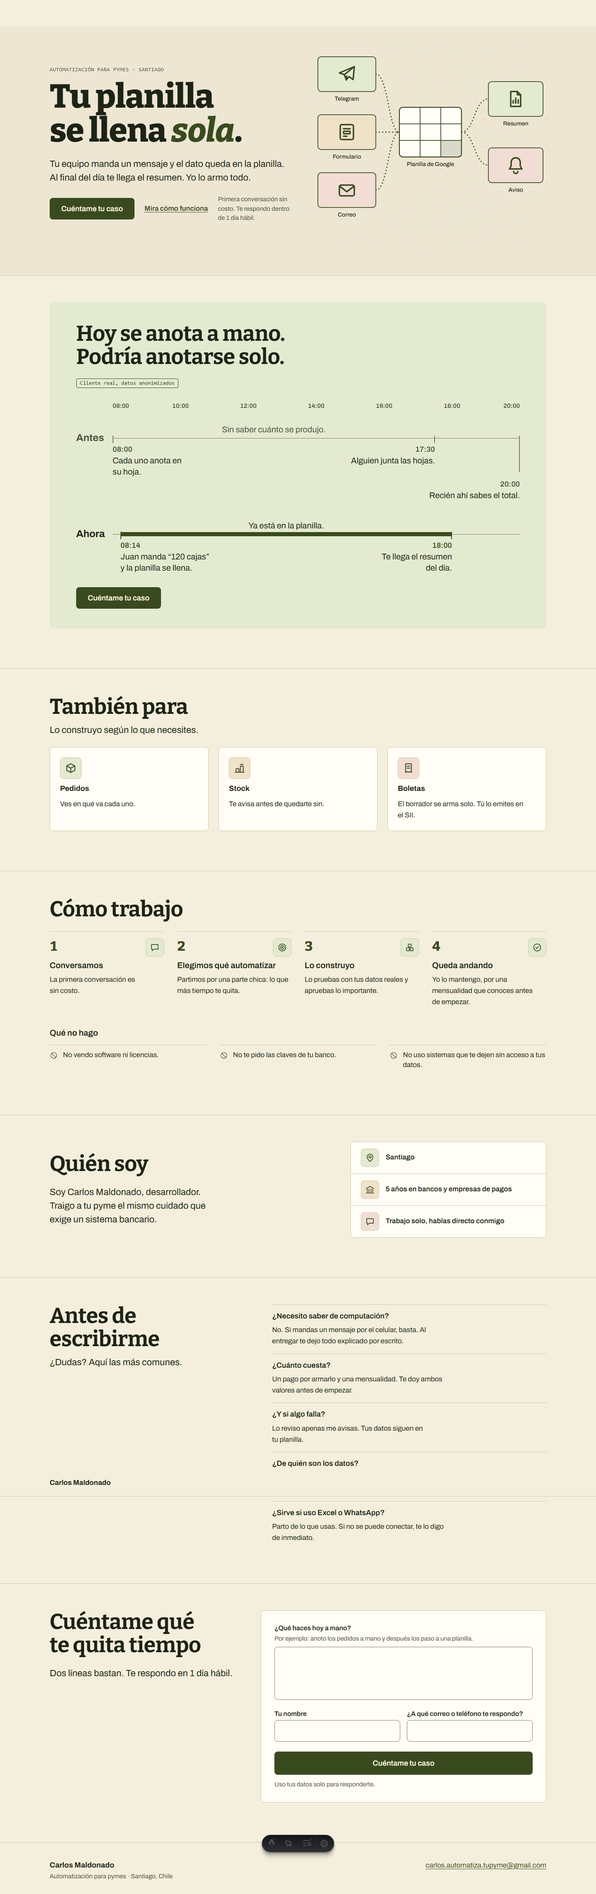
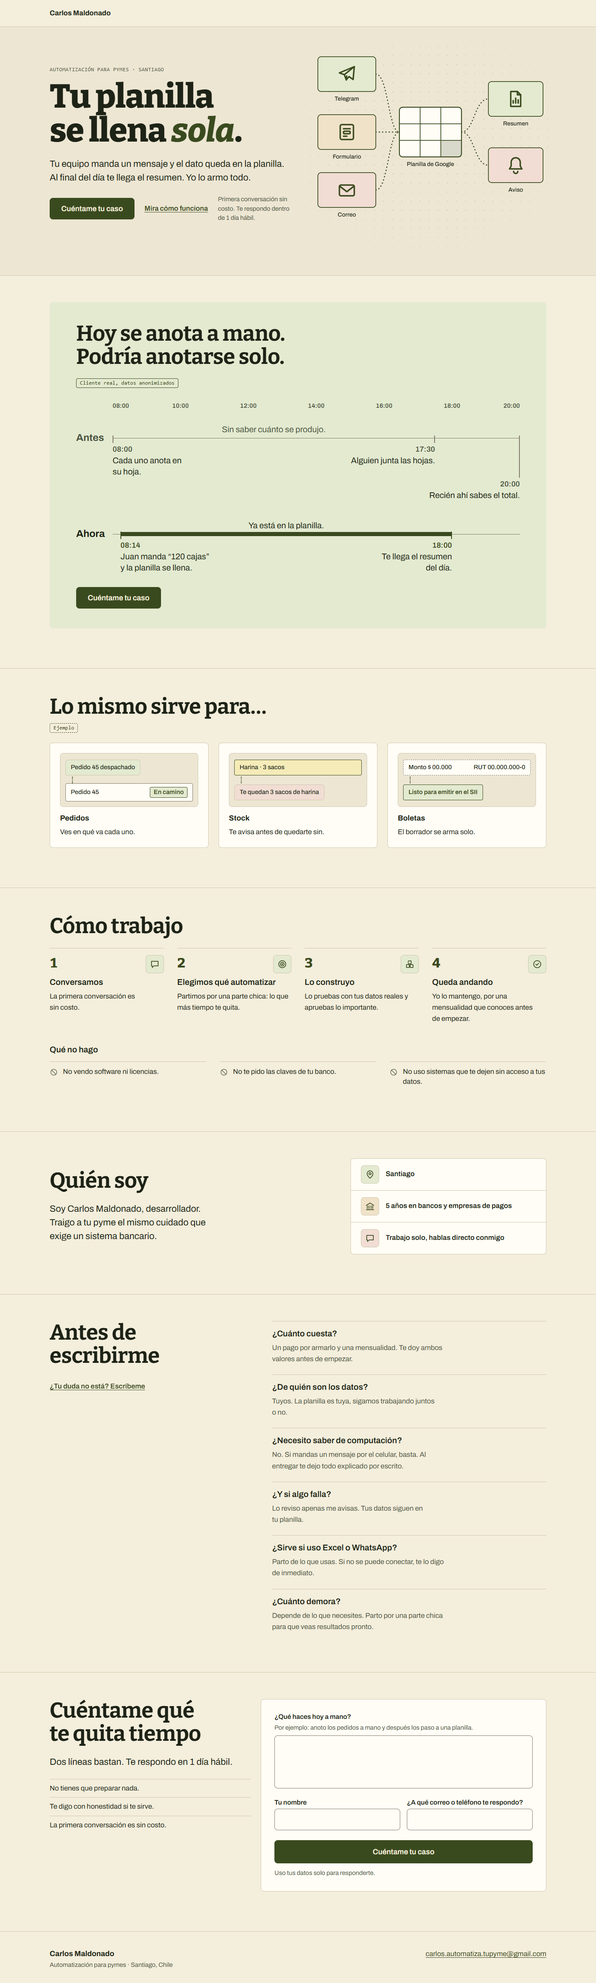
Fase 4: revisión 2026-10-17
FAQ con jerarquía y 6 preguntas, promesas en contacto, 'Lo mismo sirve para…' con mini-UI, marca de 20:00 en el caso, npm run capturas.

diff --git a/src/styles/global.css b/src/styles/global.css
@@ -167,7 +167,7 @@ main > section + section { border-top: 1px solid var(--linea); }
 .hito.der { left: auto; right: calc((20 - var(--h)) / 12 * 100%); text-align: right; }
 .hito.der::before { left: auto; right: 0; }
 .hito.t2 { padding-top: 6.5rem; }
-.hito.t2::before { height: 5.5rem; }
+.hito.t2::before { height: 6.375rem; }
 .hito p { font: 400 1.25rem/1.35 var(--f-titulo); max-width: none; }
 .hito.t2 p { width: 14rem; }
 .hora { display: block; color: var(--oliva); font: 600 1.125rem/1.5 var(--f-titulo); font-variant-numeric: tabular-nums; }
@@ -215,16 +215,18 @@ main > section + section { border-top: 1px solid var(--linea); }
 }
 
 /* preguntas frecuentes: details nativos */
-.faq { margin-top: var(--s6); display: grid; gap: var(--s5) var(--s7); }
+.faq { margin-top: var(--s6); display: grid; gap: var(--s6) var(--s7); }
 .faq > div { border-top: 1px solid var(--linea); padding-top: var(--s4); }
-.faq h3 { font: 600 1.125rem/1.3 var(--f-titulo); }
-.faq p { margin-top: var(--s2); max-width: 44ch; }
+.faq h3 { font: 600 1.25rem/1.3 var(--f-titulo); color: var(--tinta); }
+.faq p { margin-top: var(--s2); max-width: 44ch; color: var(--tinta-2); }
 @media (min-width: 768px) { .faq { grid-template-columns: 1fr 1fr; } }
 .faq-grid { display: grid; }
-.faq-intro .lead { margin-top: var(--s3); }
+.faq-intro { position: sticky; top: calc(64px + var(--s5)); }
+@media (max-width: 1023px) { .faq-intro { position: static; } }
+.faq-duda { display: inline-flex; align-items: center; min-height: 44px; margin-top: var(--s4); font-weight: 600; }
 @media (min-width: 1024px) {
   .faq-grid { grid-template-columns: 5fr 7fr; column-gap: var(--s8); align-items: start; }
-  .faq { grid-template-columns: 1fr; margin-top: 0; gap: var(--s4); }
+  .faq { grid-template-columns: 1fr; margin-top: 0; gap: var(--s5); }
 }
 
 /* volver al inicio */
@@ -328,7 +330,7 @@ main > section + section { border-top: 1px solid var(--linea); }
   .pasos h3, .pasos p { grid-column: 3; max-width: none; }
   .trabajo-cierre, .no-hago { margin-top: var(--s5); }
   .campo textarea { min-height: 96px; }
-  .faq { gap: var(--s4); margin-top: var(--s5); }
+  .faq { gap: var(--s5); margin-top: var(--s5); }
 }
 
 /* hero: ilustracion de linea fina (mensajes -> planilla -> resumen y aviso) sobre una grilla de puntos muy tenue */
@@ -347,19 +349,33 @@ main > section + section { border-top: 1px solid var(--linea); }
 .caja { width: 52px; height: 52px; border: 1px solid var(--linea); border-radius: var(--r); display: grid; place-items: center; flex: none; }
 .caja.sal { background: var(--salvia); } .caja.are { background: var(--arena); } .caja.ros { background: var(--rosa); }
 
-/* servicios: tres tarjetas */
-.servicios .lead { margin-top: var(--s3); }
+/* servicios: tres tarjetas con mini-UI (lo que haces -> lo que pasa solo) */
 .sv-tarjetas { list-style: none; padding: 0; margin: var(--s5) 0 0; display: grid; gap: var(--s3); }
-.sv-tarjeta { background: var(--hoja); border: 1px solid var(--linea); border-radius: var(--r-tarjeta); padding: var(--s4); display: grid; grid-template-columns: auto minmax(0, 1fr); gap: var(--s1) var(--s4); align-items: center; }
-.sv-tarjeta .caja { grid-row: 1 / 3; }
+.sv-tarjeta { background: var(--hoja); border: 1px solid var(--linea); border-radius: var(--r-tarjeta); padding: var(--s4); display: grid; gap: var(--s2); align-content: start; }
+.sv-tarjeta .mini { margin-bottom: var(--s2); }
 .sv-tarjeta h3 { font: 700 1.125rem/1.3 var(--f-titulo); }
 .sv-tarjeta p { max-width: none; }
 @media (min-width: 768px) {
   .sv-tarjetas { grid-template-columns: repeat(3, minmax(0, 1fr)); gap: var(--s5); }
-  .sv-tarjeta { grid-template-columns: 1fr; padding: var(--s5); gap: var(--s3); align-items: start; align-content: start; }
-  .sv-tarjeta .caja { grid-row: auto; }
+  .sv-tarjeta { padding: var(--s5); }
 }
+.servicios .chip-real { margin-top: var(--s3); border-style: dashed; }
+.mini { background: var(--crema-2); border: 1px solid var(--linea); border-radius: var(--r); padding: var(--s3); display: grid; justify-items: start; font: 500 0.9375rem/1.3 var(--f-titulo); color: var(--tinta); }
+.mi-in, .mi-out { min-height: 2.75rem; display: flex; align-items: center; width: 100%; }
+.mi-paso { width: 0; height: 1rem; margin-left: var(--s4); border-left: 2px dotted var(--oliva); }
+.burbuja { background: var(--salvia); border: 1px solid var(--linea); border-radius: var(--r) var(--r) var(--r) var(--r-chico); padding: var(--s2) var(--s3); }
+.burbuja.aviso { background: var(--rosa); }
+.fila { display: flex; flex-wrap: wrap; align-items: center; justify-content: space-between; gap: var(--s1) var(--s3); width: 100%; background: var(--hoja); border: 1px solid var(--linea-campo); border-radius: var(--r-chico); padding: var(--s2) var(--s3); font-variant-numeric: tabular-nums; }
+.fila.marcada { background: var(--destello); border-color: var(--oliva); }
+.fila.borrador { border-style: dashed; }
+.chip-est { background: var(--salvia); color: var(--oliva); border: 1px solid var(--oliva); border-radius: var(--r-chico); padding: 2px var(--s2); font-weight: 600; }
+.mi-out > .chip-est { padding: var(--s2) var(--s3); }
 .chip-real { display: inline-block; margin-top: var(--s3); font: 500 0.8125rem/1.3 var(--f-mono); color: var(--oliva); border: 1px solid currentColor; border-radius: var(--r-chico); padding: 2px var(--s2); }
+
+/* contacto: promesas */
+.promesas { list-style: none; padding: 0; margin-top: var(--s5); display: grid; gap: var(--s2); }
+.promesas li { border-top: 1px solid var(--linea); padding-top: var(--s2); }
+.contacto-texto .promesas { margin-top: var(--s5); }
 
 /* tras enviar: el texto de invitacion sale y la confirmacion toma el lugar */
 .enviado .contacto-texto { display: none; }

diff --git a/tests/servicios.spec.ts b/tests/servicios.spec.ts
@@ -6,25 +6,29 @@ test.describe('Estructura y texto de la pagina', () => {
     await abrir(page);
     const ids = await page.locator('main > section').evaluateAll((s) => s.map((e) => e.getAttribute('aria-labelledby') || e.id));
     expect(ids).toEqual(['t-hero', 't-caso', 't-hago', 't-trabajo', 't-quien', 't-faq', 't-contacto']);
-    await expect(page.locator('#t-hago')).toHaveText('También para');
-    await expect(page.locator('.servicios .lead')).toHaveText('Lo construyo según lo que necesites.');
+    await expect(page.locator('#t-hago')).toHaveText('Lo mismo sirve para…');
+    await expect(page.locator('.servicios .lead')).toHaveCount(0);
+    await expect(page.locator('.servicios .chip-real')).toHaveText('Ejemplo');
     const filas = page.locator('.sv-tarjeta');
     await expect(filas).toHaveCount(3);
     await expect(filas.locator('h3')).toHaveText(['Pedidos', 'Stock', 'Boletas']);
-    await expect(filas.nth(2)).toContainText('Tú lo emites en el SII.');
+    await expect(filas.nth(2)).toContainText('Listo para emitir en el SII');
     await expect(page.locator('.servicios')).not.toContainText('Lo construyo para ti');
     await expect(page.locator('.servicios table, .servicios .num')).toHaveCount(0);
   });
 
-  test('iconos: uno por item, decorativos (aria-hidden) y las 3 tarjetas alinean ícono, título y texto', async ({ page }) => {
+  test('iconos y mini-UI: decorativos (aria-hidden); las 3 tarjetas alinean mini-UI, título y texto', async ({ page }) => {
     await abrir(page);
     const svgs = await page.locator('main svg.ic').evaluateAll((l) => l.map((e) => ({ aria: e.getAttribute('aria-hidden'), role: e.getAttribute('role'), padre: e.closest('li')?.textContent?.trim().slice(0, 20) })));
-    expect(svgs.length).toBe(3 + 3 + 4 + 3);
+    expect(svgs.length).toBe(3 + 4 + 3);
     expect(svgs.every((x) => x.aria === 'true' && !x.role)).toBe(true);
-    for (const li of await page.locator('.sv-tarjeta, .ficha li, .pasos > li, .no-hago li').all()) expect(await li.locator('svg.ic').count()).toBe(1);
+    for (const li of await page.locator('.ficha li, .pasos > li, .no-hago li').all()) expect(await li.locator('svg.ic').count()).toBe(1);
     const t = page.locator('.sv-tarjeta');
+    await expect(t.locator('svg')).toHaveCount(0);
+    expect(await t.locator('.mini').evaluateAll((l) => l.every((e) => e.getAttribute('aria-hidden') === 'true'))).toBe(true);
+    expect(await t.locator('p').evaluateAll((l) => l.every((e) => e.getClientRects()[0].height < 30))).toBe(true);
     if ((await page.viewportSize())!.width >= 768) {
-      const y = await t.evaluateAll((l) => l.map((e) => ['.caja', 'h3', 'p'].map((q) => Math.round(e.querySelector(q)!.getBoundingClientRect().top - e.getBoundingClientRect().top))));
+      const y = await t.evaluateAll((l) => l.map((e) => ['.mini', 'h3', 'p'].map((q) => Math.round(e.querySelector(q)!.getBoundingClientRect().top - e.getBoundingClientRect().top))));
       expect(y[1]).toEqual(y[0]);
       expect(y[2]).toEqual(y[0]);
     }
@@ -33,7 +37,7 @@ test.describe('Estructura y texto de la pagina', () => {
   test('problema y caso son una sola seccion: titulo, chip, linea de tiempo y un boton', async ({ page }) => {
     await abrir(page);
     await expect(page.locator('#t-caso')).toHaveText('Hoy se anota a mano. Podría anotarse solo.');
-    await expect(page.locator('.chip-real')).toHaveText('Cliente real, datos anonimizados');
+    await expect(page.locator('.banda-caso .chip-real')).toHaveText('Cliente real, datos anonimizados');
     await expect(page.locator('.caso-sec .btn')).toHaveText('Cuéntame tu caso');
     await expect(page.locator('#t-problema')).toHaveCount(0);
     expect(await page.locator('body').textContent()).not.toMatch(/n8n/i);
@@ -42,12 +46,14 @@ test.describe('Estructura y texto de la pagina', () => {
   test('textos aprobados: quien soy, FAQ y contacto', async ({ page }) => {
     await abrir(page);
     expect(await page.locator('.quien').textContent()).not.toMatch(/fintech/i);
-    await expect(page.locator('.faq > div h3')).toHaveText(['¿Necesito saber de computación?', '¿Cuánto cuesta?', '¿Y si algo falla?', '¿De quién son los datos?', '¿Sirve si uso Excel o WhatsApp?']);
-    await expect(page.locator('.faq > div').nth(1)).toContainText('Un pago por armarlo y una mensualidad. Te doy ambos valores antes de empezar.');
+    await expect(page.locator('.faq > div h3')).toHaveText(['¿Cuánto cuesta?', '¿De quién son los datos?', '¿Necesito saber de computación?', '¿Y si algo falla?', '¿Sirve si uso Excel o WhatsApp?', '¿Cuánto demora?']);
+    await expect(page.locator('.faq > div').nth(0)).toContainText('Un pago por armarlo y una mensualidad. Te doy ambos valores antes de empezar.');
     await expect(page.locator('#t-contacto')).toHaveText('Cuéntame qué te quita tiempo');
     await expect(page.locator('.contacto-texto .lead')).toHaveText('Dos líneas bastan. Te respondo en 1 día hábil.');
     await expect(page.locator('.nota-datos')).toHaveText('Uso tus datos solo para responderte.');
-    await expect(page.locator('.promesas')).toHaveCount(0);
+    await expect(page.locator('.promesas li')).toHaveText(['No tienes que preparar nada.', 'Te digo con honestidad si te sirve.', 'La primera conversación es sin costo.']);
+    await expect(page.locator('.faq-intro .lead')).toHaveCount(0);
+    await expect(page.locator('.faq-duda')).toHaveAttribute('href', '#contacto');
   });
 
   test('hero: Formulario en la ilustracion; WhatsApp solo aparece en el FAQ', async ({ page }) => {

diff --git a/tests/mejoras.spec.ts b/tests/mejoras.spec.ts
@@ -2,10 +2,10 @@ import { test, expect } from '@playwright/test';
 import { abrir, llenar } from './comun';
 
 test.describe('Segunda ronda de mejoras', () => {
-  test('FAQ: 5 preguntas siempre visibles, respuestas cortas y sin cifras de precio', async ({ page }) => {
+  test('FAQ: 6 preguntas siempre visibles, respuestas cortas y sin cifras de precio', async ({ page }) => {
     await abrir(page);
     const q = page.locator('.faq > div');
-    await expect(q).toHaveCount(5);
+    await expect(q).toHaveCount(6);
     for (const t of await q.all()) {
       await expect(t.locator('h3')).toBeVisible();
       await expect(t.locator('p')).toBeVisible();

diff --git a/docs/revisiones/2026-10-17-fase4.md b/docs/revisiones/2026-10-17-fase4.md
@@ -1,0 +1,70 @@
+# Revisión Fase 4 — 2026-10-17
+
+Revisión externa sobre `aa6eb98` (rama `conversion-v2`), en vivo en localhost:4321 y con las capturas de `design/fase4/capturas/`.
+
+**Aprobado, no tocar:** hero, caso real (salvo punto 5), Cómo trabajo, Quién soy.
+**No regenerar snapshots** hasta que Carlos apruebe las capturas nuevas.
+Respetar PRODUCT.md y DESIGN.md: sin íconos genéricos, sin precios, sin foto, ejemplos rotulados como ejemplo.
+Todo cambio de texto se refleja también en `copy.md`.
+
+## Instrucciones
+
+### 1. Capturas de página completa (no es bug de la FAQ)
+La FAQ está bien en una columna: medido en el navegador, las 5 preguntas son correlativas y todas tienen respuesta.
+Lo que aparece en `pagina-1440.png` ("Carlos Maldonado" y una línea a mitad de la FAQ) es la cabecera sticky pegada por el método de captura.
+- No toques el layout de la FAQ por esto.
+- Las capturas de página completa deben usar el mismo `preparar()` de `tests/visual.spec.ts` (cabecera `position: static`, `.subir` oculto) y `fullPage: true`. Deja un script reutilizable para eso (por ejemplo `npm run capturas`).
+
+### 2. FAQ "Antes de escribirme"
+- Quita el subtítulo "¿Dudas? Aquí las más comunes."
+- Jerarquía: hoy pregunta 18px/600 y respuesta 17px en el mismo color (se lee como un bloque). Pregunta en `title` (1.25rem, 600, tinta); respuesta en `tinta-2`; más aire entre ítems.
+- Orden: ¿Cuánto cuesta? → ¿De quién son los datos? → ¿Necesito saber de computación? → ¿Y si algo falla? → ¿Sirve si uso Excel o WhatsApp? → ¿Cuánto demora?
+- Nueva pregunta, texto de `copy.md`: **¿Cuánto demora?** "Depende de lo que necesites. Parto por una parte chica para que veas resultados pronto."
+- Columna izquierda, bajo el título: enlace "¿Tu duda no está? Escríbeme" → `#contacto`. Que no quede vacía en 1440.
+
+### 3. Contacto
+Columna izquierda, bajo "Dos líneas bastan. Te respondo en 1 día hábil.", lista corta (sin íconos genéricos):
+- "No tienes que preparar nada."
+- "Te digo con honestidad si te sirve."
+- "La primera conversación es sin costo."
+
+### 4. "También para" → "Lo mismo sirve para…"
+- Título: "Lo mismo sirve para…". Quita el subtítulo "Lo construyo según lo que necesites."
+- Reemplaza el ícono de cada tarjeta por una mini-UI en HTML/CSS con el patrón del caso real: lo que haces → lo que pasa solo (mismos tokens, bordes finos y lenguaje del hero; nada de ilustración nueva ni librerías):
+  - **Pedidos:** burbuja "Pedido 45 despachado" → fila de planilla con chip "En camino".
+  - **Stock:** fila "Harina · 3 sacos" marcada → aviso "Te quedan 3 sacos de harina".
+  - **Boletas:** borrador (monto, RUT) → etiqueta "Listo para emitir en el SII".
+- Rótulo visible "Ejemplo" en la sección o en cada mini-UI (PRODUCT.md: aún no corren en un cliente).
+- Mantén el texto de cada tarjeta en una línea. La tarjeta no debe quedar con espacio vacío bajo el texto.
+- Mini-UI decorativa: `aria-hidden="true"`; el texto de la tarjeta sigue siendo el contenido accesible.
+
+### 5. Caso real (1440)
+"20:00 · Recién ahí sabes el total." queda descolgado abajo a la derecha. Alinéalo bajo su marca como las demás etiquetas.
+
+Solo toca esos componentes.
+
+## Criterios de aceptación
+- `npm run build` sin errores; los 89 tests no visuales pasan (ajusta los que dependan de textos o del orden de la FAQ).
+- Capturas nuevas en `design/fase4/capturas/`: página completa 375 y 1440 (sin la cabecera a mitad de página) y zoom de FAQ, contacto y "Lo mismo sirve para…" en ambos tamaños.
+- Revisión del subagente `revisor-landing` antes de mostrarme las capturas.
+- Espera mi OK antes de `--update-snapshots`.
+
+## Resultado
+**Commit:** "Fase 4: revisión 2026-10-17" (rama `conversion-v2`, sobre `aa6eb98`).
+
+**Hecho**
+1. `scripts/capturas.mjs` + `npm run capturas`: mismo `preparar()` que `visual.spec.ts`, `fullPage: true`, oculta la barra de Astro dev. FAQ sin cambios de layout por esto.
+2. FAQ: sin subtítulo; pregunta 1.25rem/600 tinta, respuesta `tinta-2`, más aire; nuevo orden; "¿Cuánto demora?"; enlace "¿Tu duda no está? Escríbeme" → `#contacto`, con `.faq-intro` sticky en 1440.
+3. Contacto: lista de 3 promesas bajo "Dos líneas bastan…".
+4. "Lo mismo sirve para…": sin subtítulo, mini-UI HTML/CSS (`aria-hidden`) en Pedidos, Stock y Boletas, chip "Ejemplo" (borde punteado) en la sección. Texto de Boletas acortado a "El borrador se arma solo." para una línea; "Tú lo emites en el SII" pasó al chip de la mini-UI.
+5. Caso real: la marca de las 20:00 llega hasta su etiqueta (`.hito.t2::before`).
+- `copy.md` y `DESIGN.md` actualizados; tests de textos/orden ajustados.
+- Revisión de `revisor-landing`: corregidas barra Astro en capturas, DESIGN.md desactualizado, hueco bajo el enlace de la FAQ (sticky) y chip "Ejemplo" confundible con el de "Cliente real".
+
+**Verificado:** `npm run build` ok; 89 tests no visuales pasan.
+
+**Pendiente**
+- OK de Carlos a las capturas de `design/fase4/capturas/` y luego `--update-snapshots` (los snapshots de servicios, FAQ y formulario fallarán hasta entonces).
+- Columna izquierda de la FAQ sigue con aire en 1440 (solo título y enlace).
+- Los montos y el RUT de la mini-UI de Boletas son marcadores (`$ 00.000`), no precios.
+- `design/revision/` (capturas del revisor) no se versiona.

diff --git a/copy.md b/copy.md
@@ -51,31 +51,13 @@ cuando ya no hay cómo evitarlos.
 
 Tres tarjetas (tonos pastel): Se anota en papel o en WhatsApp · Se pasa a mano a una planilla · Te enteras tarde.
 
-## 3. Qué dejo andando solo
+## 3. Lo mismo sirve para… (Fase 4)
 
-Tomo la parte manual y la dejo funcionando con Telegram, planillas de Google y correo.
-
-**01 · REGISTROS** · Funcionando en un cliente
-*Llega el mensaje. La planilla se llena sola.*
-ENTRA POR Telegram · QUEDA EN planilla de Google · TE AVISA resumen diario
-Cómo está armado: un bot de Telegram, una planilla de Google y un programa que las conecta (se llama n8n).
-Esto ya funciona en un cliente real. Los nombres y números de este ejemplo son inventados.
-
-**02 · PEDIDOS** · Lo construyo para ti
-*Entra el pedido. Ves en qué va cada uno.*
-ENTRA POR formulario (WhatsApp si se puede conectar) · QUEDA EN planilla ordenada por estado · TE AVISA correo al cliente
-Todavía no lo tengo andando en un cliente: es una muestra de cómo lo armaría para ti.
-
-**03 · AVISOS** · Lo construyo para ti
-*Baja el stock. Te avisan antes de quedarte sin.*
-ENTRA POR tu planilla de stock · QUEDA EN esa misma planilla · TE AVISA Telegram o correo bajo el mínimo
-Todavía no lo tengo andando en un cliente: es una muestra de cómo lo armaría para ti.
-
-**04 · BOLETAS Y FACTURAS** · Lo construyo para ti
-*Está en tu planilla. El borrador se arma solo.*
-ENTRA POR tu planilla · QUEDA EN un borrador listo · TE AVISA "Tú lo revisas y lo emites"
-Tú emites la boleta o factura en el SII; no hay integración con el SII.
-Todavía no lo tengo andando en un cliente: es una muestra de cómo lo armaría para ti.
+Título: **Lo mismo sirve para…** (sin subtítulo). Rótulo visible: `Ejemplo` (aún no corren en un cliente).
+Tres tarjetas con mini-UI decorativa (lo que haces → lo que pasa solo):
+- **Pedidos** · burbuja "Pedido 45 despachado" → fila "Pedido 45 · En camino". Texto: Ves en qué va cada uno.
+- **Stock** · fila "Harina · 3 sacos" → aviso "Te quedan 3 sacos de harina". Texto: Te avisa antes de quedarte sin.
+- **Boletas** · borrador (Monto $ 00.000, RUT 00.000.000-0) → "Listo para emitir en el SII". Texto: El borrador se arma solo.
 
 [Cuéntame tu caso]
 
@@ -117,20 +99,26 @@ Esa forma de trabajar la llevo a tu pyme: datos con respaldo y avisos cuando alg
 Cuatro datos en fila: 5 años en sistemas bancarios y fintech · Trabajo solo: hablas directo conmigo ·
 Respondo en 1 día hábil · Tus datos son tuyos.
 
-## 8. Antes de escribirme
+## 8. Antes de escribirme (Fase 4)
 
-- **¿Tengo que saber de computación?** No. Si sabes mandar un mensaje desde el celular, basta. Yo armo todo y, al entregar, te explico cómo usarlo y te dejo la documentación por escrito.
-- **¿Cuánto cuesta?** Depende de lo que necesites automatizar. En la primera conversación, que es sin costo, vemos tu caso y te doy el valor del proyecto y de la mensualidad antes de empezar. Sin sorpresas.
-- **¿Qué pasa si algo se cae?** Lo reviso apenas me avisas. Tus datos siguen en tu planilla, así que mientras tanto puedes anotar a mano.
-- **¿Mis datos, de quién son?** La planilla es tuya. Si un día dejamos de trabajar juntos, te la quedas con todos tus datos. Las automatizaciones corren en mi servidor en la nube.
-- **¿Y si ya uso Excel o WhatsApp?** Parto de lo que ya usas, sin pedirte cambiar cómo trabajas. Si se puede conectar, lo hago; si no, te lo digo desde el principio.
-- **¿Cuánto demoras en responder?** Te respondo dentro de 1 día hábil.
+Sin subtítulo. Bajo el título, enlace a #contacto: "¿Tu duda no está? Escríbeme".
+
+- **¿Cuánto cuesta?** Un pago por armarlo y una mensualidad. Te doy ambos valores antes de empezar.
+- **¿De quién son los datos?** Tuyos. La planilla es tuya, sigamos trabajando juntos o no.
+- **¿Necesito saber de computación?** No. Si mandas un mensaje por el celular, basta. Al entregar te dejo todo explicado por escrito.
+- **¿Y si algo falla?** Lo reviso apenas me avisas. Tus datos siguen en tu planilla.
+- **¿Sirve si uso Excel o WhatsApp?** Parto de lo que usas. Si no se puede conectar, te lo digo de inmediato.
+- **¿Cuánto demora?** Depende de lo que necesites. Parto por una parte chica para que veas resultados pronto.
 
 ## 9. Contacto
 
 ## Cuéntame qué te quita tiempo
 
-Escríbeme en dos líneas qué haces hoy a mano. Te respondo dentro de 1 día hábil, con una idea de si te sirve.
+Dos líneas bastan. Te respondo en 1 día hábil.
+
+- No tienes que preparar nada.
+- Te digo con honestidad si te sirve.
+- La primera conversación es sin costo.
 
 - **¿Qué haces hoy a mano?** (ayuda: "Por ejemplo: anoto los pedidos a mano y después los paso a una planilla.")
 - **Tu nombre**

diff --git a/DESIGN.md b/DESIGN.md
@@ -148,7 +148,7 @@ Una columna centrada, máx. 1200px más margen lateral (20/24/40px). Regla únic
 Orden de la página:
 1. **Hero** (crema 2, partido): etiqueta mono, h1, subtítulo, CTA y "Mira cómo funciona" (baja al caso) a la izquierda; ilustración de línea fina a la derecha con grilla de puntos tenue detrás. En 375 la ilustración va en vertical, debajo del CTA.
 2. **Caso real** (problema y caso fundidos): título "Hoy se anota a mano. Podría anotarse solo.", chip "Cliente real, datos anonimizados" y el eje horario Antes / Ahora dentro de una **tarjeta salvia contenida** (margen lateral, radio 8px). En móvil, dos listas apiladas con la hora a la izquierda. Espacio reservado para un dato real (`.caso-datos`).
-3. **También para**: tres filas (Pedidos, Stock, Boletas), nombre y una línea, sin números ni estado.
+3. **Lo mismo sirve para…**: tres tarjetas (Pedidos, Stock, Boletas) con mini-UI de ejemplo, nombre y una línea, sin números ni estado.
 4. **Cómo trabajo + Qué no hago**: cuatro pasos con número, título y una línea; tres límites.
 5. **Quién soy**: dos frases, sin foto ni cajas.
 6. **Preguntas**: cinco, respuestas de una línea.
@@ -179,7 +179,7 @@ Radio 8px en botones, campos y tarjetas; 4px en chips; 0 en tablas. Sin círculo
 Íconos de línea (rejilla 24, trazo oliva 1.75, puntas redondas), el mismo trazo de la ilustración del hero, dentro de una caja pastel (salvia, arena o rosa) con borde 1px `linea` y radio 8px. Máximo un ícono por ítem, siempre decorativo (`aria-hidden="true"`). Tamaños: caja 52px (tarjetas), 44px (ficha, pasos), 40px (pasos en móvil); ícono 28/24px. Sin fotos, logos de color ni ilustraciones nuevas.
 
 ### Tarjetas de servicio
-Tres tarjetas `hoja` con borde 1px (Pedidos, Stock, Boletas): ícono, título y una línea. Apiladas en 375, en fila desde 768px, alineadas arriba (ícono, título y texto a la misma altura aunque el texto ocupe 2 líneas).
+Tres tarjetas `hoja` con borde 1px (Pedidos, Stock, Boletas): mini-UI HTML/CSS decorativa (`aria-hidden`; lo que haces → lo que pasa solo, sobre `crema-2`, con rótulo "Ejemplo" en la sección), título y una línea. Apiladas en 375, en fila desde 768px, alineadas arriba (mini-UI, título y texto a la misma altura aunque el texto ocupe 2 líneas).
 
 ### Ficha de Quién soy
 Dos columnas desde 1024px (7/5): texto a la izquierda y ficha `hoja` a la derecha con tres filas ícono + dato (Santiago, 5 años en bancos y empresas de pagos, Trabajo solo y hablas directo conmigo). En 375 la ficha va bajo el texto.
@@ -188,7 +188,7 @@ Dos columnas desde 1024px (7/5): texto a la izquierda y ficha `hoja` a la derech
 Cuatro pasos con número, ícono pequeño a la derecha, título y una línea (sin flechas ni línea punteada: se eligió el ícono). Tres límites con ícono discreto de "no" (trazo 1.5 en `tinta-2`, sin caja).
 
 ### Preguntas
-Dos columnas desde 1024px (5/7): título y "¿Dudas? Aquí las más comunes." a la izquierda, cinco preguntas a la derecha.
+Dos columnas desde 1024px (5/7): título y enlace "¿Tu duda no está? Escríbeme" (→ #contacto) a la izquierda, seis preguntas a la derecha (pregunta 1.25rem/600 en tinta, respuesta en `tinta-2`). Sin subtítulo. Contacto: bajo "Dos líneas bastan…", lista de tres promesas con filas finas, sin íconos.
 
 ### Formulario
 Tarjeta hoja (`#FFFDF6`), borde 1px línea, radio 8px, sobre crema. Etiquetas arriba (Archivo 600), campos de 52px con borde 1.5px línea de campo y radio 8px; hover borde tinta; foco borde oliva más contorno 3px; inválido borde error con mensaje debajo. Fallo: caja error con el correo de respaldo; el mensaje escrito no se borra. Éxito: título corto ("Listo, {nombre}. Recibí tu mensaje."), mini-planilla con la hora y "Recibido", y una línea con el contacto, el plazo, la llamada y la forma de corregirse por correo. Valores insertados siempre con `textContent`.

diff --git a/.claude/agents/revisor-landing.md b/.claude/agents/revisor-landing.md
@@ -1,0 +1,33 @@
+---
+name: revisor-landing
+description: Revisor independiente de la landing. Úsalo después de cada cambio visual o de copy, antes de mostrarle capturas a Carlos o de regenerar snapshots. Revisa la página renderizada contra PRODUCT.md, DESIGN.md, copy.md y la revisión vigente en docs/revisiones/. No edita código.
+tools: Read, Grep, Glob, Bash
+---
+
+Eres un revisor de diseño y conversión que no escribió el código que revisas. Tu trabajo es encontrar lo que está mal, no confirmar que está bien.
+
+## Antes de revisar
+1. Lee PRODUCT.md, DESIGN.md y copy.md.
+2. Lee la revisión más reciente de docs/revisiones/ (la de fecha mayor) y sus criterios de aceptación.
+3. Mira `git diff` o el último commit para saber qué cambió.
+
+## Cómo revisar
+- Genera capturas propias con Playwright a 375 y 1440 px, usando el mismo `preparar()` de tests/visual.spec.ts (cabecera estática, `.subir` oculto, reducedMotion). Guárdalas en design/revision/ (no en tests/__snapshots__).
+- Mira las capturas con Read antes de opinar. No juzgues solo por el código.
+- Revisa cada criterio de aceptación de la revisión vigente: cumple / no cumple, con evidencia.
+- Revisa además:
+  - Jerarquía: ¿se distingue título, pregunta y respuesta a simple vista?
+  - Texto: ¿algún subtítulo repite al título? ¿frases de plantilla prohibidas por PRODUCT.md?
+  - Reglas de marca: sin íconos genéricos, emoji, degradados, precios ni foto; ejemplos rotulados como ejemplo.
+  - Layout: desbordes horizontales, columnas vacías en 1440, espacios muertos en tarjetas, alineación.
+  - Accesibilidad: contraste, foco visible, aria-hidden en lo decorativo, orden de lectura.
+
+## Reglas
+- No edites archivos de src/, tests/ ni de configuración. Solo escribes capturas en design/revision/.
+- No regeneres snapshots.
+
+## Formato de respuesta
+1. Veredicto en una línea: listo para mostrar a Carlos / necesita cambios.
+2. Criterios de aceptación: lista cumple/no cumple con evidencia (archivo:línea o captura).
+3. Problemas, de más grave a menos, cada uno con dónde está y la corrección concreta.
+4. Rutas de las capturas que generaste.

diff --git a/docs/revisiones/README.md b/docs/revisiones/README.md
@@ -1,0 +1,12 @@
+# Revisiones
+
+Registro de las revisiones externas de la landing (hechas en el chat de Claude, fuera de Claude Code).
+
+## Flujo
+1. La revisión se escribe aquí como `AAAA-MM-DD-tema.md`, con instrucciones y criterios de aceptación.
+2. En Claude Code: `aplica @docs/revisiones/<archivo>.md`.
+3. Claude Code implementa, genera capturas en `design/<fase>/capturas/` y espera el OK de Carlos.
+4. Al cerrar, Claude Code completa la sección **Resultado** del archivo (commit, qué se hizo, qué quedó pendiente) y lo incluye en el commit.
+
+Revisiones rutinarias (después de cada cambio visual): subagente `revisor-landing` (`.claude/agents/revisor-landing.md`).
+Decisiones grandes (secciones, copy, dirección): en el chat, y quedan como archivo aquí.

diff --git a/CLAUDE.md b/CLAUDE.md
@@ -1,0 +1,10 @@
+# CLAUDE.md
+
+Contexto del producto: PRODUCT.md. Sistema visual: DESIGN.md. Textos: copy.md (fuente de verdad del copy).
+
+## Flujo de revisiones
+- Las revisiones externas llegan como archivo en `docs/revisiones/AAAA-MM-DD-tema.md`. Aplícalas tal cual; si algo choca con PRODUCT.md o DESIGN.md, pregunta antes de decidir.
+- Antes de mostrar capturas a Carlos, pasa el subagente `revisor-landing` y corrige lo que encuentre.
+- No regeneres snapshots visuales sin el OK explícito de Carlos a las capturas.
+- Al cerrar una revisión, completa su sección **Resultado** (commit, qué se hizo, qué quedó pendiente) e inclúyela en el commit.
+- Todo cambio de texto en la página se refleja también en copy.md.
